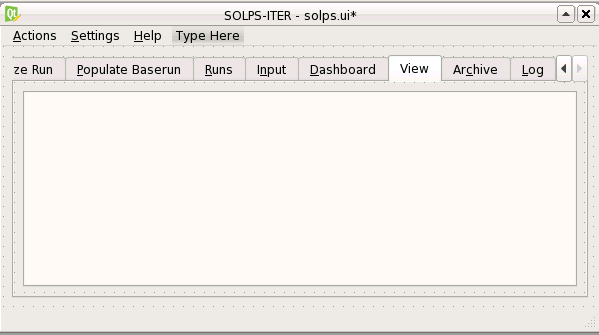
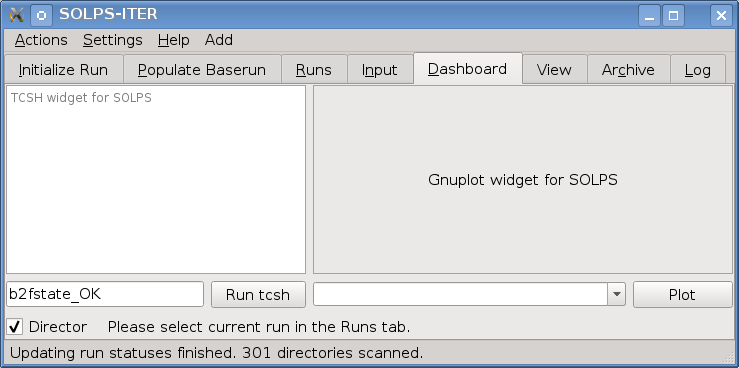
Add job name, standalone and convert path to preferences

Changed region(s): [[0.0, 0.0, 1.0, 1.0], [0.571, 0.4478, 0.8414, 0.5075]]

diff --git a/src/gui/solps.py b/src/gui/solps.py
@@ -245,8 +245,11 @@ class Preferences():
         self.solps_gui_ip = '127.0.0.1'
         self.tcsh_path = '/bin/tcsh'
         self.gnuplot_path = '/usr/bin/gnuplot'
+        self.convert_path = '/usr/bin/convert'
         self.log_level = 1 # info
         self.submit_script = 'localsubmit'
+        self.job_name = 'SOLPS-ITER'
+        self.standalone = 0
         self.use_mpi = 0
         self.mpi_options = '-n 16'
         self.use_debugger = 0
@@ -263,8 +266,11 @@ class Preferences():
         self.solps_gui_ip = settings.value('SOLPS_GUI_IP', self.solps_gui_ip)
         self.tcsh_path = settings.value('tcsh_path', self.tcsh_path)
         self.gnuplot_path = settings.value('gnuplot_path', self.gnuplot_path)
+        self.convert_path = settings.value('convert_path', self.convert_path)
         self.log_level = int(settings.value('log_level', self.log_level))
         self.submit_script = settings.value('submit_script', self.submit_script)
+        self.job_name = settings.value('job_name', self.job_name)
+        self.standalone = int(settings.value('standalone', self.standalone))
         self.use_mpi = int(settings.value('use_mpi', self.use_mpi))
         self.mpi_options = settings.value('mpi_options', self.mpi_options)
         self.use_debugger = int(settings.value('use_debugger', self.use_debugger))
@@ -281,9 +287,12 @@ class Preferences():
         settings.setValue('SOLPS_GUI_IP', self.solps_gui_ip)
         settings.setValue('tcsh_path', self.tcsh_path)
         settings.setValue('gnuplot_path', self.gnuplot_path)
+        settings.setValue('convert_path', self.convert_path)
         settings.setValue('log_level', str(self.log_level))
         settings.setValue('submit_script', self.submit_script)
-        settings.setValue('use_mpi', self.use_mpi)
+        settings.setValue('job_name', self.job_name)
+        settings.setValue('standalone', str(self.standalone))
+        settings.setValue('use_mpi', str(self.use_mpi))
         settings.setValue('mpi_options', self.mpi_options)
         settings.setValue('use_debugger', str(self.use_debugger))
         settings.setValue('debugger', self.debugger)
@@ -305,8 +314,11 @@ class PreferencesDialog(QDialog):
         self.lineEdit_monitor_ip.setText(preferences.solps_gui_ip)
         self.lineEdit_tcsh_path.setText(preferences.tcsh_path)
         self.lineEdit_gnuplot_path.setText(preferences.gnuplot_path)
+        self.lineEdit_convert_path.setText(preferences.convert_path)
         self.comboBox_log_level.setCurrentIndex(preferences.log_level)
         self.comboBox_submit_script.setCurrentText(preferences.submit_script)
+        self.lineEdit_job_name.setText(preferences.job_name)
+        self.checkBox_standalone.setCheckState(int(preferences.standalone))
         self.checkBox_use_mpi.setCheckState(int(preferences.use_mpi))
         self.lineEdit_mpi_options.setText(preferences.mpi_options)
         self.checkBox_use_debugger.setCheckState(int(preferences.use_debugger))
@@ -321,12 +333,15 @@ class PreferencesDialog(QDialog):
         self.preferences.solps_gui_ip = self.lineEdit_monitor_ip.text()
         self.preferences.tcsh_path = self.lineEdit_tcsh_path.text()
         self.preferences.gnuplot_path = self.lineEdit_gnuplot_path.text()
+        self.preferences.convert_path = self.lineEdit_convert_path.text()
         self.preferences.log_level = self.comboBox_log_level.currentIndex()
         log_levels = [logging.DEBUG, logging.INFO, logging.WARNING,
                       logging.ERROR, logging.CRITICAL]
         log_level = log_levels[self.comboBox_log_level.currentIndex()]
         logging.getLogger().setLevel(log_level)
         self.preferences.submit_script = self.comboBox_submit_script.currentText()
+        self.preferences.job_name = self.lineEdit_job_name.text()
+        self.preferences.standalone = int(self.checkBox_standalone.checkState())
         self.preferences.use_mpi = int(self.checkBox_use_mpi.checkState())
         self.preferences.mpi_options = self.lineEdit_mpi_options.text()
         self.preferences.use_debugger = int(self.checkBox_use_debugger.checkState())
@@ -1569,25 +1584,16 @@ class SOLPS_MainWindow(QMainWindow):
         #submit_command = settings.value("submit_script", 'localsubmit')
         submit_command = self.preferences.submit_script
 
-
-
         cmd = ''
         if submit_command:
-            opts = ''
+            opts = ' -j ' + self.preferences.job_name
+            if self.preferences.standalone: opts += ' -s'
             if self.preferences.use_mpi:
                 opts += ' -m "' + self.preferences.mpi_options + '"'
-            #if int(settings.value('use_debugger', '0')):
-            #    opts += ' -d "' + settings.value('debugger', 'totalview') + '"'
             if self.preferences.use_debugger:
                 opts += ' -d "' + self.preferences.debugger + '"'
-            #if int(settings.value('compress_log', '0')):
-            #    opts += ' -z'
-            if self.preferences.compress_log:
-                opts += ' -z'
-            #if int(settings.value('dry_run', '0')):
-            #    opts += ' -n'
-            if self.preferences.dry_run:
-                opts += ' -n'
+            if self.preferences.compress_log:  opts += ' -z'
+            if self.preferences.dry_run: opts += ' -n'
             cmd +=  'rm -f *.prt\n' + submit_command + opts
             self.execute_tcsh_command_in_rundir(cmd, rundir)
             msg = 'batch ' + rundir + ' ' + submit_command + opts
